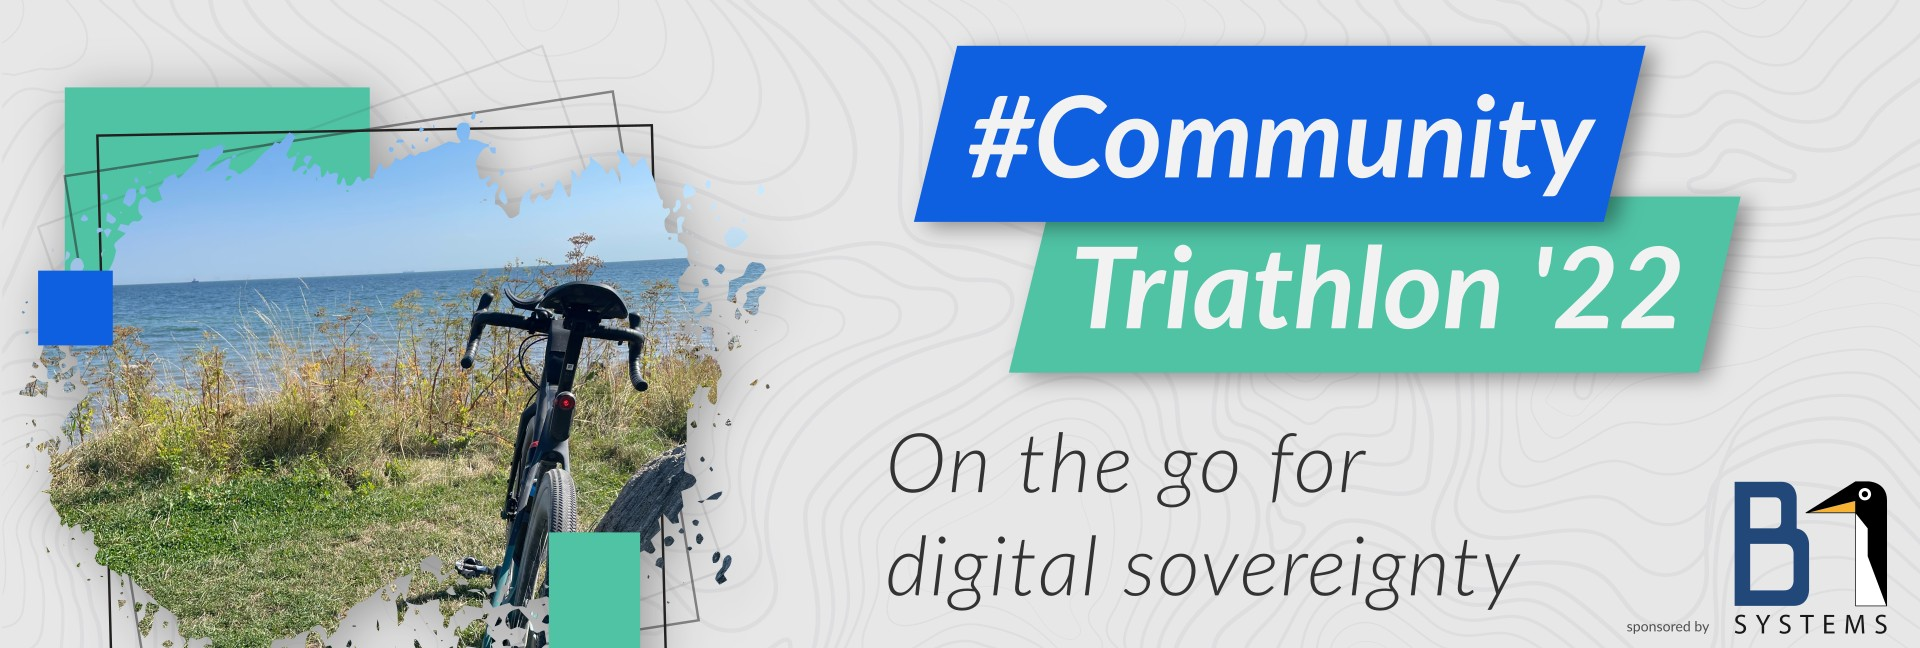
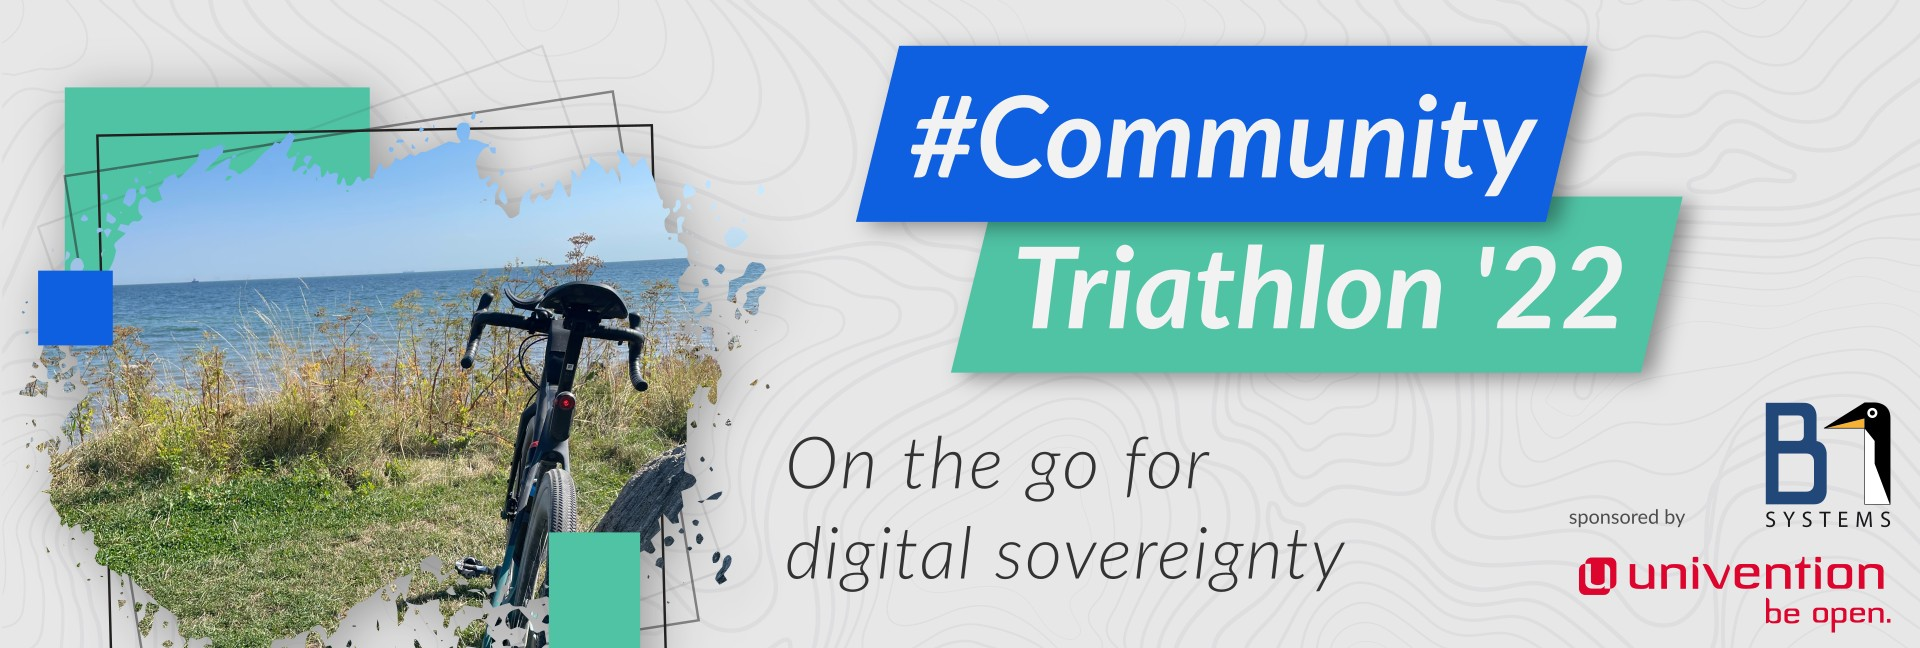
Add Univention as second partner

diff --git a/_i18n/en/_posts/blog/2022-08-18-community-triathlon-2022.md b/_i18n/en/_posts/blog/2022-08-18-community-triathlon-2022.md
@@ -71,7 +71,7 @@ classification in the discipline of walking.
 
 Like last year there will be shirts for our participants. Sign up now for our Community Triathlon,
 availability of our goodies package is limited. We would like to thank [B1 Systems GmbH](https://b1-systems.de/)
-for making the shirts possible this year!
+and [Univention GmbH](https://www.univention.de/) for making the shirts possible this year!
 
 <div class="d-grid gap-2 col-4 mx-auto mt-5">
 <a href="https://ms.scs.sovereignit.de/nextcloud/apps/forms/oZfP4N9feLBTT987" class="btn btn-secondary btn-lg">Sign up</a>
